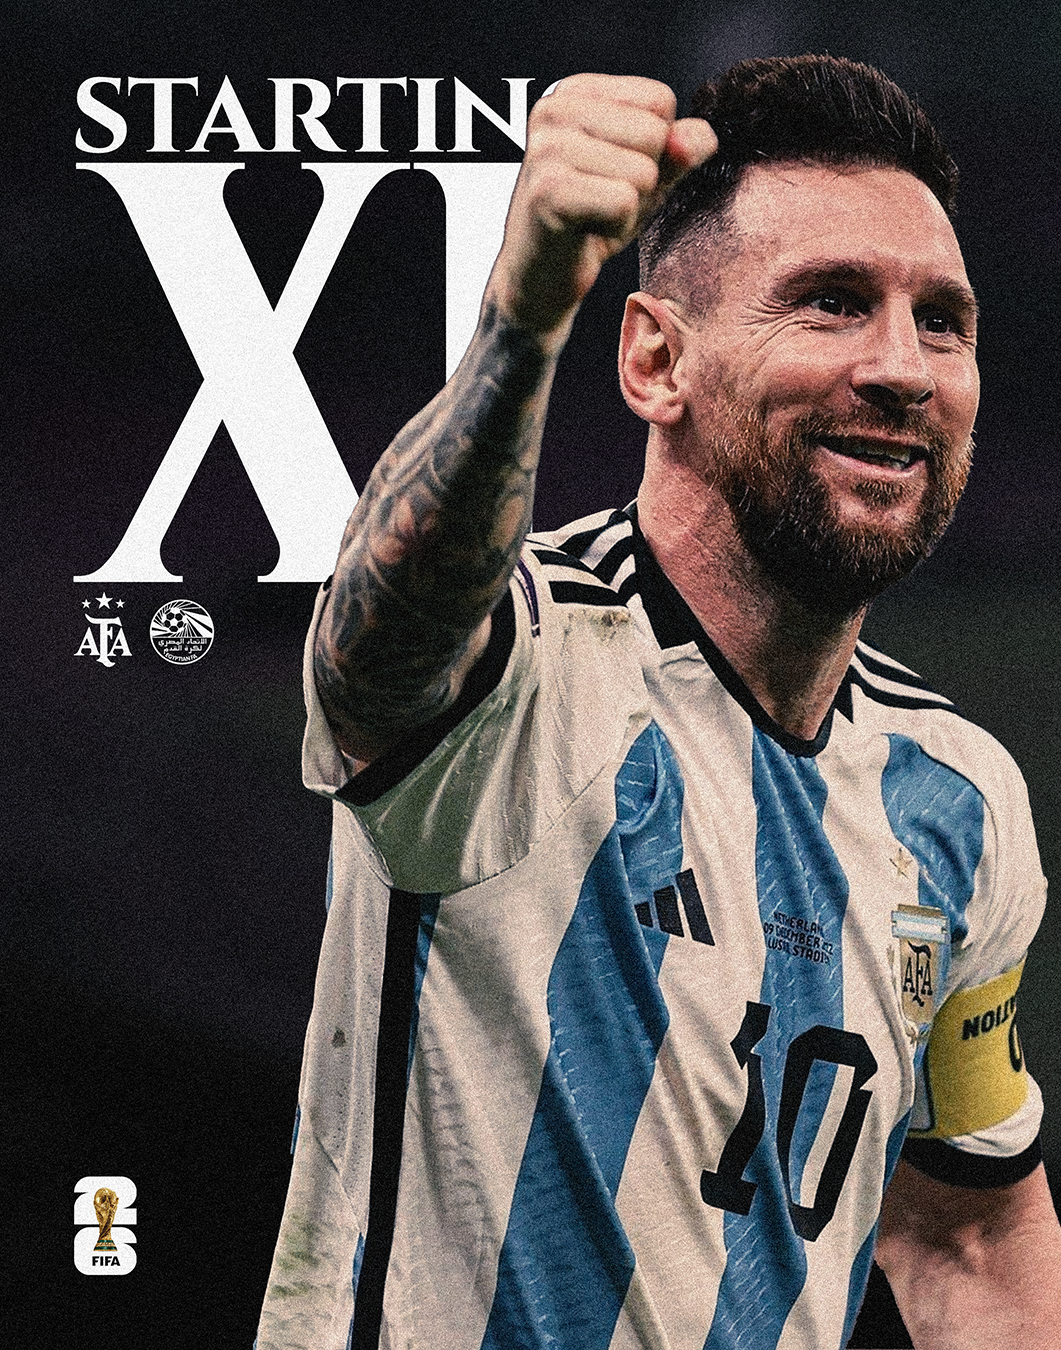
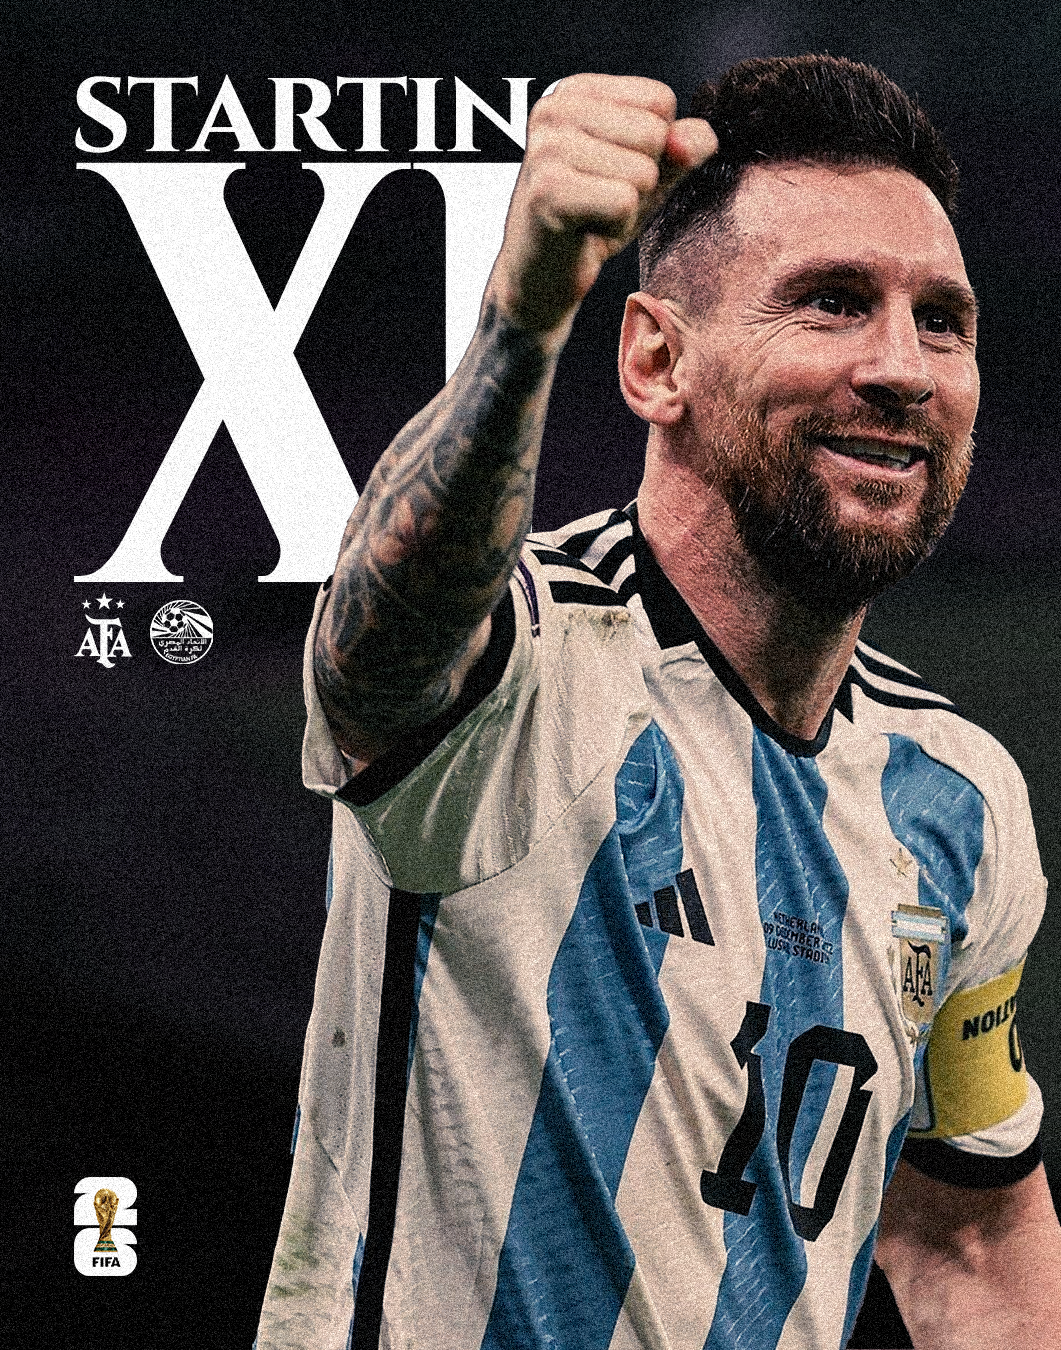
Describe your changes

Changed region(s): [[0.0, 0.0, 1.0, 1.0], [0.0, 0.8089, 0.1555, 0.9644]]

diff --git a/project-branding.html b/project-branding.html
@@ -5,7 +5,7 @@
   <link rel="stylesheet" href="https://cdnjs.cloudflare.com/ajax/libs/font-awesome/6.7.2/css/all.min.css">
   <meta charset="UTF-8" />
   <meta name="viewport" content="width=device-width, initial-scale=1.0" />
-  <title>Branding — TSDZGN</title>
+  <title>Graphic Design — TSDZGN</title>
   <link rel="stylesheet" href="style.css" />
 </head>
 <body>
@@ -30,7 +30,7 @@
   <main class="gallery-page">
     <a class="back-link" href="index.html#projects">← Back to projects</a>
     <p class="eyebrow">Project Gallery</p>
-    <h1>Branding</h1>
+    <h1>Graphic Design</h1>
 
     <div class="project-gallery">
                  <img src="assets/Branding/banner.png" alt="">

diff --git a/script.js b/script.js
@@ -31,3 +31,18 @@ if (galleryImages.length > 0 && lightbox && lightboxImage) {
     lightboxImage.src = "";
   });
 }
+
+// Graphic Design thumbnail hover swap
+const brandingCard = document.querySelector(".branding-card");
+
+if (brandingCard) {
+  const brandingImage = brandingCard.querySelector("img");
+
+  brandingCard.addEventListener("mouseenter", () => {
+    brandingImage.src = "assets/WNB.png";
+  });
+
+  brandingCard.addEventListener("mouseleave", () => {
+    brandingImage.src = "assets/BNW.png";
+  });
+}

diff --git a/index.html b/index.html
@@ -97,10 +97,15 @@
   </a>
 
   <a class="project-card branding-card" href="project-branding.html">
-    <img src="assets/Branding.png" alt="Album Promo thumbnail">
-    <div class="branding-placeholder">
+  <img 
+    src="assets/BNW.png" 
+    data-hover="assets/WNB.png" 
+    data-original="assets/BNW.png"
+    alt="Graphic Design thumbnail"
+  >
+    <div class="project-info">
       <small>04 / Visual Identity</small>
-      <span>Branding</span>
+      <span>Graphic Design</span>
     </div>
   </a>
 

diff --git a/style.css b/style.css
@@ -401,3 +401,10 @@ h2 {
     padding-top: 0;
   }
 }
+.branding-card {
+  grid-column: 1 / -1;
+  aspect-ratio: 16 / 9;
+  justify-self: center;
+  width: 100%;
+  max-width: 900px;
+}
